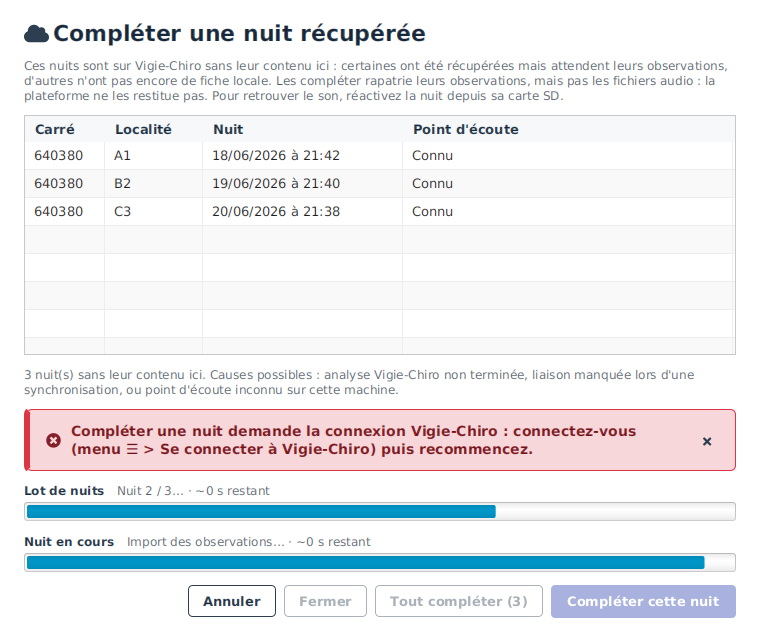
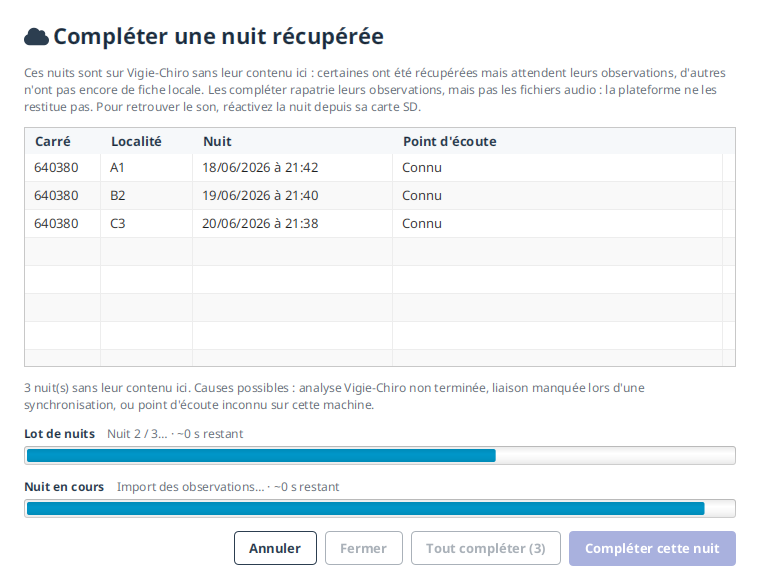
docs(multisite): trois états du lot qu'aucune capture ne montrait
Passe 8 de la clôture du lot 3 : les captures ouvertes une par une.

L'aperçu de l'import groupé superposait un bandeau rouge « Compléter une
nuit demande la connexion Vigie-Chiro » à deux barres qui tournent - un
état que le produit ne produit jamais, posé parce que l'injecteur de
capture n'a pas de service. L'aperçu efface le retour : un import en
cours n'a pas de refus en attente.

Cette capture n'était référencée par AUCUNE page : elle était régénérée à
chaque build et vue par personne. Elle entre dans la fiche, avec l'état
d'après-interruption, qui n'existait nulle part - c'est pourtant celui
qui mentait avant la passe 7.

Et en le regardant : le bilan d'un lot interrompu s'affichait en vert
avec une coche, alors que l'utilisateur a renoncé. Il passe en
information.

diff --git a/src/main/java/fr/univ_amu/iut/multisite/outils/CaptureMultisite.java b/src/main/java/fr/univ_amu/iut/multisite/outils/CaptureMultisite.java
@@ -9,6 +9,7 @@ import fr.univ_amu.iut.commun.di.PersistenceModule;
 import fr.univ_amu.iut.commun.model.ActionGroupee;
 import fr.univ_amu.iut.commun.model.CiblePassage;
 import fr.univ_amu.iut.commun.model.JetonAnnulation;
+import fr.univ_amu.iut.commun.model.Progression;
 import fr.univ_amu.iut.commun.model.Protocole;
 import fr.univ_amu.iut.commun.model.StatutWorkflow;
 import fr.univ_amu.iut.commun.model.Utilisateur;
@@ -31,6 +32,7 @@ import fr.univ_amu.iut.passage.model.Campagne;
 import fr.univ_amu.iut.passage.model.Enregistreur;
 import fr.univ_amu.iut.passage.model.ParticipationOrpheline;
 import fr.univ_amu.iut.passage.model.Passage;
+import fr.univ_amu.iut.passage.model.ServiceReconstructionPassages;
 import fr.univ_amu.iut.passage.model.dao.CampagneDao;
 import fr.univ_amu.iut.passage.model.dao.EnregistreurDao;
 import fr.univ_amu.iut.passage.model.dao.PassageDao;
@@ -135,6 +137,7 @@ public final class CaptureMultisite {
         rendreEcranTableauPlein(injecteur, sortie.resolve("apercu-multisite-tableau-plein.png"));
         rendreModaleReconstruction(injecteur, sortie.resolve("apercu-multisite-reconstruction.png"));
         rendreImportGroupe(injecteur, sortie.resolve("apercu-multisite-reconstruction-groupe.png"));
+        rendreImportGroupeInterrompu(injecteur, sortie.resolve("apercu-multisite-reconstruction-interrompu.png"));
         rendreMenuActions(injecteur, sortie.resolve("apercu-multisite-menu-actions.png"));
         rendreMenuActionsSelection(injecteur, sortie.resolve("apercu-multisite-menu-selection.png"));
     }
@@ -199,6 +202,35 @@ public final class CaptureMultisite {
                         "6a53f5faae21902a597394d5", CARRE_DEMO, "C3", "2026-06-20T21:38:00+02:00", true)));
         controleur.apercuImportGroupeEnCours("Nuit 2 / 3…", 2.0 / 3.0, "Import des observations…", 0.96);
         ApercuFx.enregistrerPng(new Scene(vue), fichier);
+    }
+
+    /// Rend la modale **après un import groupé interrompu** (revue visuelle, clôture du lot 3).
+    ///
+    /// C'est l'état qui **mentait** : le lot levait à l'annulation, la modale affichait « aucune nuit n'a
+    /// été complétée » alors que deux l'étaient, et ne rechargeait pas sa liste - les deux nuits déjà
+    /// complétées restaient offertes à la complétion. Aucune capture ne montrait cet état, donc rien ne
+    /// le contredisait.
+    ///
+    /// Ce qui est rendu ici est ce que le produit fait maintenant : le bilan dit ce qui a été fait, dit
+    /// que le reste est intact, et la liste ne garde que la nuit non commencée.
+    private static void rendreImportGroupeInterrompu(Injector injecteur, Path fichier) throws IOException {
+        ReconstructionViewModel viewModel = new ReconstructionViewModel(Optional.empty());
+        ExecuteurTache executeur = injecteur.getInstance(ExecuteurTache.class);
+        FXMLLoader loader = new FXMLLoader(ReconstructionModaleController.class.getResource(FXML_RECONSTRUCTION));
+        loader.setControllerFactory(type -> type == ReconstructionModaleController.class
+                ? new ReconstructionModaleController(viewModel, executeur)
+                : injecteur.getInstance(type));
+        Parent vue = loader.load();
+        viewModel.appliquer(List.of(new ParticipationOrpheline(
+                "6a53f5faae21902a597394d5", CARRE_DEMO, "C3", "2026-06-20T21:38:00+02:00", true)));
+        // La barre « Nuit en cours » reste affichée après un lot (elle suit `reconstruit`) : on la laisse
+        // à l'état où la dernière nuit l'a laissée, sinon l'aperçu montre une barre vide que le produit
+        // n'affiche jamais.
+        viewModel.progression().demarrer("Terminé.");
+        viewModel.progression().appliquer(new Progression("Terminé.", 1.0));
+        viewModel.restituerLot(new ServiceReconstructionPassages.BilanReconstructionGroupe(2, 0, 20, 41, true));
+        ApercuFx.enregistrerPng(new Scene(vue), fichier);
+        journaliser(fichier);
     }
 
     /// Photographie le **menu ☰ ouvert** de « Carte & passages » (#2065). Il n'était ouvert par aucune

diff --git a/src/test/java/fr/univ_amu/iut/multisite/viewmodel/ReconstructionViewModelTest.java b/src/test/java/fr/univ_amu/iut/multisite/viewmodel/ReconstructionViewModelTest.java
@@ -116,6 +116,24 @@ class ReconstructionViewModelTest {
     }
 
     @Test
+    @DisplayName("Un lot INTERROMPU dit ce qui a été fait, et ne se présente pas comme un succès")
+    void lot_interrompu_ne_se_presente_pas_en_succes() {
+        // Le message d'avant affirmait « aucune nuit n'a été complétée » : vrai pour UNE nuit, qui se
+        // compense, faux pour un lot, dont la compensation est par nuit.
+        ReconstructionViewModel viewModel = new ReconstructionViewModel(Optional.empty());
+
+        viewModel.restituerLot(new BilanReconstructionGroupe(2, 0, 20, 41, true));
+
+        assertThat(viewModel.retourProperty().get().texte())
+                .contains("Import interrompu.")
+                .contains("2 nuit(s) complétée(s)")
+                .contains("intactes");
+        assertThat(viewModel.retourProperty().get().severite())
+                .as("l'utilisateur a renoncé : une pastille verte le féliciterait de s'être arrêté")
+                .isEqualTo(Severite.INFO);
+    }
+
+    @Test
     @DisplayName("Un refus (point inconnu ici) devient un message, pas une exception muette")
     void refus_devient_un_message() {
         ServiceReconstructionPassages service = mock(ServiceReconstructionPassages.class);

diff --git a/src/main/java/fr/univ_amu/iut/multisite/view/ReconstructionModaleController.java b/src/main/java/fr/univ_amu/iut/multisite/view/ReconstructionModaleController.java
@@ -331,6 +331,11 @@ public class ReconstructionModaleController {
     /// [#reconstruireTout]. Sur le fil JavaFX.
     public void apercuImportGroupeEnCours(
             String libelleLot, double fractionLot, String libelleNuit, double fractionNuit) {
+        // Un import EN COURS n'a pas de refus en attente. Sans cet effacement, l'aperçu superposait le
+        // bandeau rouge « Compléter une nuit demande la connexion Vigie-Chiro » - posé parce que
+        // l'injecteur de capture n'a pas de service - aux deux barres qui tournent : un état que le
+        // produit ne produit jamais, publié dans la documentation (revue visuelle, clôture du lot 3).
+        viewModel.effacerRetour();
         operationEnCours.set(true);
         lotEnCours.set(true);
         viewModel.progressionGlobale().demarrer(libelleLot);

diff --git a/src/main/java/fr/univ_amu/iut/multisite/viewmodel/ReconstructionViewModel.java b/src/main/java/fr/univ_amu/iut/multisite/viewmodel/ReconstructionViewModel.java
@@ -208,7 +208,9 @@ public class ReconstructionViewModel {
         rendu += System.lineSeparator()
                 + "Ces nuits sont consultables mais pas écoutables (le dépôt ZIP ne restitue"
                 + " pas l'audio). Réactivez-les si vous retrouvez les fichiers d'origine.";
-        retour.set(RetourOperation.succes(rendu));
+        // Un lot interrompu n'est pas un succès : l'utilisateur a renoncé, et une pastille verte le
+        // féliciterait de s'être arrêté. Ce n'est pas une erreur non plus - d'où l'information.
+        retour.set(bilan.interrompu() ? RetourOperation.info(rendu) : RetourOperation.succes(rendu));
     }
 
     /// Route un échec vers le message de la modale : un refus (point inconnu, hors connexion, analyse non

diff --git a/docs/ecrans/multisite.md b/docs/ecrans/multisite.md
@@ -190,6 +190,14 @@ proprement).
 
 ![La modale « Compléter une nuit récupérée » : les nuits dont Vigie-Chiro n'a pas encore livré le contenu. La seconde ne peut pas être complétée tant que son point d'écoute n'existe pas ici.](../assets/captures/apercu-multisite-reconstruction.png)
 
+![« Tout compléter » en cours : deux barres, le lot de nuits (« Nuit 2 / 3 ») et la nuit courante, et un bouton « Annuler ».](../assets/captures/apercu-multisite-reconstruction-groupe.png)
+
+**Annuler n'annule pas ce qui est fait.** La nuit en cours va au bout, les nuits non commencées ne sont
+pas touchées, et le compte rendu dit **combien** ont été complétées : elles disparaissent de la liste,
+celles qui restent y sont toujours. Relancer l'import reprend là où vous vous êtes arrêté.
+
+![Après une interruption : « Import interrompu. 2 nuit(s) complétée(s) », la troisième nuit reste seule dans la liste.](../assets/captures/apercu-multisite-reconstruction-interrompu.png)
+
 !!! note "Ce qu'une nuit complétée ne contient pas"
     La plateforme ne rend pas tout. Une nuit complétée reste donc **sans audio** (c'est un
     [passage sans audio](passage.md) : consultable, pas
